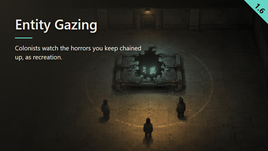
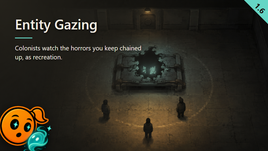
Composite ModIcon cutout into Preview.png, corner emerging effect
Bottom-left corner, +15 degrees, bleeding off the left/bottom frame
edges. Cutout via flood-fill from ModIcon-source.png's border (same
technique as ManyHappyReturns). Gallery 00-preview.png is now a
byte-for-byte copy of Preview.png, per the new gallery convention.

Changed region(s): [[0.0, 0.6887, 0.209, 1.0]]

diff --git a/Art/preview-overlay.html b/Art/preview-overlay.html
@@ -15,9 +15,11 @@ h1 .link { font-size:.65em; }
 .rule { width:58px; height:3px; background:var(--accent); margin-top:20px; margin-bottom:16px; }
 p { width:430px; font-size:21px; font-weight:400; line-height:1.45; letter-spacing:0; }
 .badge { position:absolute; right:0; top:0; width:80px; height:80px; background:var(--accent); clip-path:polygon(0 0,100% 0,100% 100%); }
+.icon { position:absolute; left:-40px; bottom:-40px; width:240px; height:240px; transform:rotate(15deg); filter:drop-shadow(0 6px 14px rgba(0,0,0,.6)); }
 .version { position:absolute; left:869px; top:27px; transform:translate(-50%,-50%) rotate(45deg); font-size:26px; font-weight:700; line-height:1; color:var(--badgeInk); }
 </style>
 <img class="scene" src="Preview.png" alt=""><div class="veil"></div>
+<img class="icon" src="ModIcon-cutout.png" alt="">
 <main class="copy"><h1>Entity Gazing</h1><div class="rule"></div><p>Colonists watch the horrors you keep chained up, as recreation.</p></main>
 <div class="badge"></div><div class="version"></div>
 <script>
@@ -29,6 +31,6 @@ window.previewReady=(async()=>{
  const versions=[...xml.querySelectorAll('supportedVersions li')].map(x=>x.textContent.trim()).filter(x=>/^\d+\.\d+$/.test(x)).sort((a,b)=>{const aa=a.split('.').map(Number),bb=b.split('.').map(Number);return bb[0]-aa[0]||bb[1]-aa[1]});
  if(!versions.length) throw Error('No stable supported version');
  document.querySelector('.version').textContent=versions[0];
- await document.fonts.ready; await document.querySelector('.scene').decode();
+ await document.fonts.ready; await document.querySelector('.scene').decode(); await document.querySelector('.icon').decode();
 })();
 </script></html>
